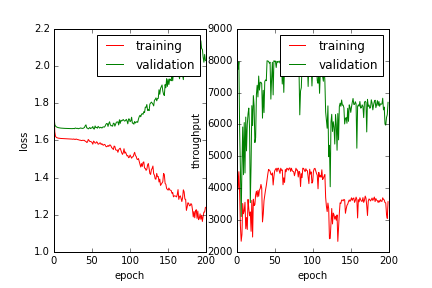
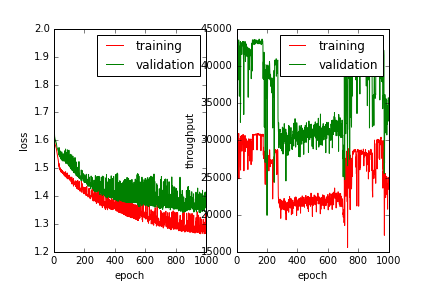
loader now loads all file endings that I use currently

diff --git a/main.py b/main.py
@@ -16,6 +16,7 @@ from analysis import Analysis
 from models import neural_networks as models
 from models.utilities import Classifier
 import sleeploader
+import loader
 
 #if 'SleepDataset' not in vars(): from sleeploader import SleepDataset
 
@@ -23,16 +24,18 @@ if os.name == 'posix':
     datadir  = '/media/simon/Windows/sleep/data/'
 else:
     datadir = 'c:\\sleep\\data\\'
-    datadir = 'c:\\sleep\\vinc\\'
+#    datadir = 'c:\\sleep\\vinc\\'
     
 sleep = sleeploader.SleepDataset(datadir)
-#selection = np.array(range(0,15)+range(33,51))
-train_touple,test_touple = sleep.load(force_reload=False)
+#selection = np.array(range(0,14))
+selection = np.array(range(15))
+train_touple,test_touple = sleep.load(selection,force_reload=False, shuffle=False)
 
 train = [list(t) for t in zip(*train_touple)]
 test  = [list(t) for t in zip(*test_touple)]
 
-
+#train_data = [loader.get_freq_bands(epoch) for epoch in train[0]]
+#test_data = [loader.get_freq_bands(epoch) for epoch in test[0]]
 
 train_data = np.array(train[0],'float32').squeeze()
 train_target = np.array(train[1],'int32').squeeze()
@@ -40,12 +43,11 @@ train_target = np.array(train[1],'int32').squeeze()
 test_data = np.array(test[0],'float32').squeeze()
 test_target = np.array(test[1],'int32').squeeze()
 
-#train_target[np.not_equal(train_target,3)]=0
-train_target[train_target==8]=6
+train_target[np.not_equal(train_target,5)]=0
+train_target[train_target==5]=1
 #
-#test_target[np.not_equal(test_target,3)]=0
-test_target[test_target==8]=6
-
+test_target[np.not_equal(test_target,5)]=0
+test_target[test_target==5]=1
 
 #train_data = np.array(np.ravel(train_data),ndmin=2).T
 #test_data  = np.array(np.ravel(test_data),ndmin=2).T
@@ -54,45 +56,54 @@ test_target[test_target==8]=6
 #test_target = np.repeat(test_target,3000)
 
 
+#%%
+batch_size = 64
+neurons = 100
+layers = 3
+epochs= 1000
+clipping = 25
+decay = 1e-5
+
 #%% training routine
 # get data
-training_data   = datasets.SupervisedData(train_data, train_target, batch_size=32, shuffle=False)
-validation_data = datasets.SupervisedData(test_data, test_target, batch_size=32, shuffle=False)
+np.random.shuffle(train_target)
+training_data   = datasets.SupervisedData(train_data, train_target, batch_size=batch_size, shuffle=False)
+validation_data = datasets.SupervisedData(test_data, test_target, batch_size=batch_size, shuffle=False)
 
-
+#validation_data = training_data
 # define model
 nin = training_data.nin
 nout = training_data.nout
 
-model = Classifier(models.RecurrentNeuralNetwork(nin, 20, nout, nlayer=5))
+model = Classifier(models.RecurrentNeuralNetwork(nin, neurons, nout, nlayer=layers))
 # Set up an optimizer
 optimizer = chainer.optimizers.Adam()
 optimizer.setup(model)
-optimizer.add_hook(chainer.optimizer.GradientClipping(50))
-#optimizer.add_hook(chainer.optimizer.WeightDecay(1e-5))
+optimizer.add_hook(chainer.optimizer.GradientClipping(clipping))
+optimizer.add_hook(chainer.optimizer.WeightDecay(decay))
 
 ann = supervised_learning.SupervisedLearner(optimizer)
 
 # Finally we run the optimization
-ann.optimize(training_data, validation_data=validation_data, epochs=200)
+ann.optimize(training_data, validation_data=validation_data, epochs=epochs)
 
 # plot loss and throughput
-ann.report('results/tmp')
+ann.report('results/tmp-{}-{}-{}-{}-{}-{}'.format(layers,neurons,epochs,clipping,decay,batch_size))
 
 # create analysis object
-ana = Analysis(ann.model, fname='results/tmp')
+ana = Analysis(ann.model, fname='results/tmp-{}-{}-{}-{}-{}-{}'.format(layers,neurons,epochs,clipping,decay,batch_size))
 
 # analyse data
 ana.classification_analysis(validation_data.X, validation_data.T)
 #%%
 acc = 0
-for i in xrange(len(test_data)/32):
+for i in xrange(len(train_data)/32):
     idx = slice(i*32,i*32+32)
-    y = model.predict(test_data[idx])
+    y = model.predict(train_data[idx])
     ymax = np.argmax(y,axis=1)
-    t = test_target[idx] 
+    t = train_target[idx] 
     acc += F.accuracy(y,t).data
-acc = acc/(len(test_data)/32)
+acc = acc/(len(train_data)/32)
 print(acc)
     
     

diff --git a/sleeploader.py b/sleeploader.py
@@ -43,7 +43,7 @@ class SleepDataset():
             return self.train_data, self.test_data
         else:
             print('Reloading DataSet')
-        self.rnd = random.RandomState(seed=35)
+        self.rnd = random.RandomState(seed=23)
         
         
         
@@ -52,10 +52,12 @@ class SleepDataset():
         self.hypno_files = sorted(self.hypno_files, key = natural_key)
 
         # check eeg_filenames
-        self.eeg_files = [s for s in os.listdir(self.dirlist) if s.endswith('.rec')]
+        self.eeg_files = [s for s in os.listdir(self.dirlist) if s.endswith(('.vhdr','rec','edf'))]
         self.eeg_files = sorted(self.eeg_files, key = natural_key)
         
-        if len(self.hypno_files) != len(self.eeg_files): print('ERROR: Not the same number of Hypno and EEG files.')
+        if len(self.hypno_files) != len(self.eeg_files): 
+            print('ERROR: Not the same number of Hypno and EEG files. Hypno: ' + str(len(self.hypno_files))+ ', EEG: ' + str(len(self.eeg_files)))
+            
         # select slice
         if sel==[]: sel = range(len(self.hypno_files))
         print(sel)
@@ -69,14 +71,15 @@ class SleepDataset():
             self.shuffle_list = list(zip(self.hypno_files, self.eeg_files))
             self.rnd.shuffle(self.shuffle_list)
             self.hypno_files, self.eeg_files = zip(*self.shuffle_list)
-            
-        # load Hpyno files
+        print('Hypno files')
+        # load Hypno files
         self.hypno = list()
         for i in range(len(self.hypno_files)):
             self.hypno.append(load_hypnogram(self.dirlist + self.hypno_files[i]))
         
+        print('EEG files')
         self.assign = np.array([0]*(len(self.hypno_files)-len(self.hypno_files)/3) + [1]*(len(self.hypno_files)/3))
-
+        # load EEG files
         for i in range(len(self.eeg_files)):
             print(i)
             header = load_eeg_header(self.dirlist + self.eeg_files[i],verbose='CRITICAL', preload=True)
@@ -84,8 +87,10 @@ class SleepDataset():
             check_for_normalization(header)
             eeg = np.array(header.to_data_frame())
             eeg = split_eeg(eeg,30,100)
-        #    print([str(files[i][-7:-5]), header.ch_names])
+            #    print([str(files[i][-7:-5]), header.ch_names])
             # DO STUFF WITH DATA
+            if(len(eeg) != len(self.hypno[i])):
+                print('WARNING: EEG epochs and Hypno epochs have different length {}:{}'.format(len(eeg),len(self.hypno[i])))
             if self.assign[i] == 0:
                 SleepDataset.train_data.extend(zip(eeg,self.hypno[i]))
             elif self.assign[i] == 1:

diff --git a/loader.py b/loader.py
@@ -13,7 +13,7 @@ import numpy as np
 import os.path
 from scipy import fft
 from sklearn.preprocessing import OneHotEncoder
-
+import sys
 
 
 
@@ -171,11 +171,12 @@ def trim_channels(data, channels):
     data.drop_channels(to_drop)
 #    return data     no need for return as data is immutable
 
-def split_eeg(df, epoch, sample_freq = 100):
-    splits = int(len(df)/( epoch * sample_freq ))
+def split_eeg(df, epochlength, sample_freq = 100):
+    splits = int(len(df)/( epochlength * sample_freq ))
     data = []
     for i in np.arange(splits):
-        data.append(df[i*sample_freq*epoch:(i+1)*sample_freq*epoch])
+        data.append(df[i*sample_freq*epochlength:(i+1)*sample_freq*epochlength])
+    sys.stdout.flush()
     return data
     
     
@@ -187,16 +188,8 @@ def get_freq_bands (epoch):
         w[i] = sum(w[i])
     
     return np.array(np.log((np.abs(w)+0.0000000001)/2))
+    
 
-
-    
-    
-    
-    
-    
-def test():
-    print('this should not be loaded (test1 in loader.py)')
-    
 print ('loaded loader.py')
     
 
